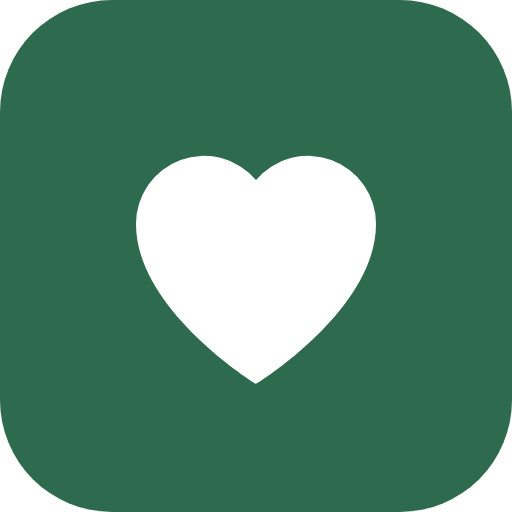
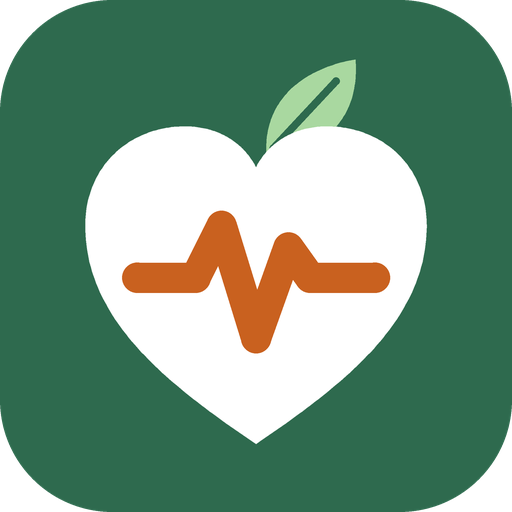
앱 아이콘 새로 만들기: 초록 바탕에 흰 하트 · 주황 맥박선 · 연두 잎 (아이콘 만드는 스크립트 추가)

Changed region(s): [[0.1562, 0.0938, 0.8438, 0.875]]

diff --git a/scripts/build-icons.py b/scripts/build-icons.py
@@ -1,0 +1,129 @@
+"""맞춤 건강관리 앱 아이콘: 초록 바탕 + 흰 하트(건강) + 주황 맥박선(운동) + 연두 새싹 잎(식사).
+같은 도형으로 SVG 와 PNG 를 만든다 (PNG 는 4배로 그린 뒤 줄여 가장자리를 매끄럽게).
+실행: python scripts/build-icons.py  (Pillow 필요) → public/ 의 아이콘 5개를 다시 만든다."""
+import os, re, sys
+from PIL import Image, ImageDraw
+
+OUT = sys.argv[1] if len(sys.argv) > 1 else 'public'
+BG = '#2E6A4E'
+HEART = '#FFFFFF'
+PULSE = '#C9611F'
+LEAF = '#A9D8A0'
+VEIN = '#2E6A4E'
+DY = 14  # 전체를 조금 아래로 (잎이 위에 붙으므로)
+
+HEART_D = 'M256 416 C176 362 98 302 98 214 C98 158 140 122 190 122 C222 122 245 138 256 160 C267 138 290 122 322 122 C372 122 414 158 414 214 C414 302 336 362 256 416 Z'
+LEAF_D = 'M266 150 C262 104 292 70 348 60 C352 112 322 146 266 150 Z'
+VEIN_D = [(272, 142), (330, 80)]
+PULSE_PTS = [(146, 262), (200, 262), (224, 214), (256, 318), (286, 234), (306, 262), (366, 262)]
+PULSE_W = 28
+ART = 1.08  # 둥근 아이콘 안에서 그림 크기
+VEIN_W = 7
+
+
+def shift_d(d):
+    nums = iter(re.findall(r'-?\d+(?:\.\d+)?', d))
+    out = []
+    for tok in re.findall(r'[MCLZ]|-?\d+(?:\.\d+)?', d):
+        out.append(tok)
+    # 짝수 번째 숫자 = x, 홀수 번째 = y 로 보고 y 에 DY 를 더한다
+    res, i = [], 0
+    for tok in out:
+        if tok in 'MCLZ':
+            res.append(tok)
+        else:
+            v = float(tok)
+            if i % 2 == 1:
+                v += DY
+            res.append(('%g' % v))
+            i += 1
+    return ' '.join(res)
+
+
+def sample(d, scale):
+    toks = re.findall(r'[MCLZ]|-?\d+(?:\.\d+)?', d)
+    pts, cur, i, cmd = [], (0, 0), 0, None
+    while i < len(toks):
+        t = toks[i]
+        if t in 'MCLZ':
+            cmd = t
+            i += 1
+            if t == 'Z':
+                continue
+        if cmd == 'M' or cmd == 'L':
+            cur = (float(toks[i]), float(toks[i + 1]))
+            pts.append(cur)
+            i += 2
+        elif cmd == 'C':
+            p1 = (float(toks[i]), float(toks[i + 1]))
+            p2 = (float(toks[i + 2]), float(toks[i + 3]))
+            p3 = (float(toks[i + 4]), float(toks[i + 5]))
+            for k in range(1, 61):
+                u = k / 60
+                a = (1 - u) ** 3
+                b = 3 * (1 - u) ** 2 * u
+                c = 3 * (1 - u) * u * u
+                e = u ** 3
+                pts.append((a * cur[0] + b * p1[0] + c * p2[0] + e * p3[0], a * cur[1] + b * p1[1] + c * p2[1] + e * p3[1]))
+            cur = p3
+            i += 6
+    return [(x * scale, y * scale) for x, y in pts]
+
+
+def polyline(draw, pts, w, color, scale):
+    pts = [(x * scale, (y + DY) * scale) for x, y in pts]
+    r = w * scale / 2
+    draw.line(pts, fill=color, width=round(w * scale), joint='curve')
+    for x, y in pts:
+        draw.ellipse([x - r, y - r, x + r, y + r], fill=color)
+
+
+def render(size, rounded, inset=0.0):
+    """inset: 도형을 가운데로 줄이는 비율 (maskable 안전 영역)"""
+    S = 4
+    big = size * S
+    img = Image.new('RGBA', (big, big), (0, 0, 0, 0))
+    d = ImageDraw.Draw(img)
+    if rounded:
+        d.rounded_rectangle([0, 0, big - 1, big - 1], radius=round(big * 14 / 64), fill=BG)
+    else:
+        d.rectangle([0, 0, big, big], fill=BG)
+    art = Image.new('RGBA', (512 * S, 512 * S), (0, 0, 0, 0))
+    a = ImageDraw.Draw(art)
+    a.polygon(sample(shift_d(LEAF_D), S), fill=LEAF)
+    polyline(a, VEIN_D, VEIN_W, VEIN, S)
+    a.polygon(sample(shift_d(HEART_D), S), fill=HEART)
+    polyline(a, PULSE_PTS, PULSE_W, PULSE, S)
+    k = ART * (1 - inset)
+    art_size = round(big * k)
+    art = art.resize((art_size, art_size), Image.LANCZOS)
+    off = (big - art_size) // 2
+    if off < 0:
+        art = art.crop((-off, -off, -off + big, -off + big))
+        off = 0
+    img.alpha_composite(art, (off, off))
+    return img.resize((size, size), Image.LANCZOS)
+
+
+def svg():
+    pts = ' '.join('%g,%g' % (x, y + DY) for x, y in PULSE_PTS)
+    vein = ' '.join('%g,%g' % (x, y + DY) for x, y in VEIN_D)
+    return (
+        '<svg xmlns="http://www.w3.org/2000/svg" viewBox="0 0 512 512">'
+        f'<rect width="512" height="512" rx="112" fill="{BG}"/>'
+        f'<g transform="translate(256 256) scale({ART}) translate(-256 -256)">'
+        f'<path d="{shift_d(LEAF_D)}" fill="{LEAF}"/>'
+        f'<polyline points="{vein}" fill="none" stroke="{VEIN}" stroke-width="{VEIN_W}" stroke-linecap="round"/>'
+        f'<path d="{shift_d(HEART_D)}" fill="{HEART}"/>'
+        f'<polyline points="{pts}" fill="none" stroke="{PULSE}" stroke-width="{PULSE_W}" stroke-linecap="round" stroke-linejoin="round"/></g>'
+        '</svg>\n'
+    )
+
+
+os.makedirs(OUT, exist_ok=True)
+render(192, True).save(os.path.join(OUT, 'icon-192.png'), optimize=True)
+render(512, True).save(os.path.join(OUT, 'icon-512.png'), optimize=True)
+render(512, False, inset=0.14).save(os.path.join(OUT, 'icon-maskable-512.png'), optimize=True)
+render(180, False, inset=0.06).convert('RGB').save(os.path.join(OUT, 'apple-touch-icon.png'), optimize=True)
+open(os.path.join(OUT, 'icon.svg'), 'w', encoding='utf-8', newline='\n').write(svg())
+print('ok')

diff --git a/README.md b/README.md
@@ -93,6 +93,7 @@ npm run dev
 | `npm run build:html` | 파일 하나짜리 `../나의 건강일지.html` 만들기 (`.env` 필요) |
 | `npm run update:foods` | 식약처 음식 자료를 새로 받아 음식 목록과 달라진 점 확인 (`-- --write` 를 붙이면 목록을 바꿈) |
 | `node scripts/build-foods.mjs <원본.json…>` | 이미 받아 둔 식약처 자료로 음식 목록 `src/data/foods.json` 다시 만들기 |
+| `python scripts/build-icons.py` | 앱 아이콘(`public/` 의 icon.svg · icon-192/512 · maskable · apple-touch) 다시 만들기 (Pillow 필요). 초록 바탕에 흰 하트(건강) · 주황 맥박선(운동) · 연두 잎(식사) |
 | `npm run test:export` | 가상의 데이터로 엑셀 내려받기 파일을 만들어 `export-test/` 에 저장 (양식 점검용) |
 
 ### 파일 하나로 열어보기
